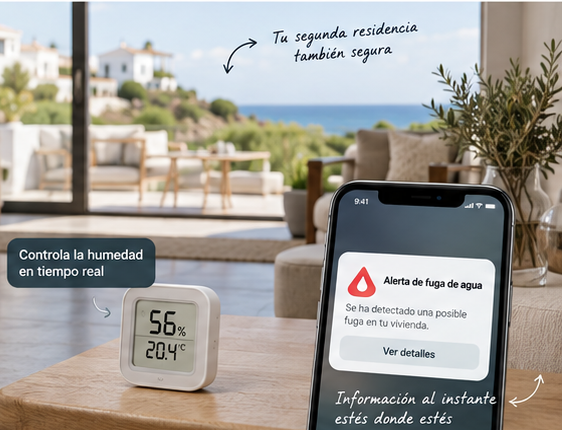
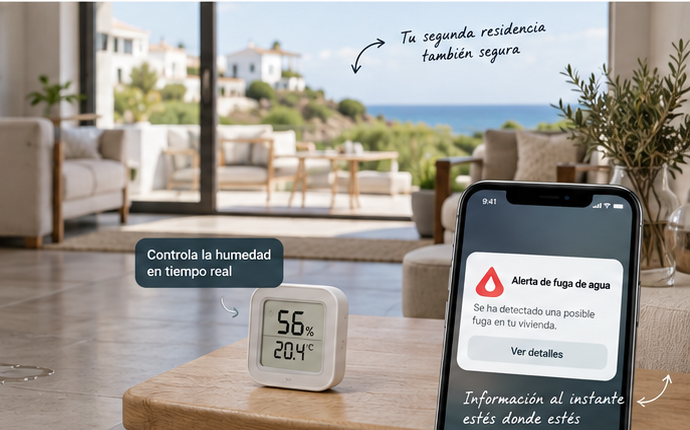
Add files via upload

diff --git a/segunda-residencia/index.html b/segunda-residencia/index.html
@@ -6,13 +6,13 @@
 <link rel="canonical" href="https://casabajocontrol.es/segunda-residencia/">
 <meta property="og:type" content="article"><meta property="og:title" content="Cómo proteger una segunda residencia | Casa Bajo Control">
 <meta property="og:description" content="Guía de Casa Bajo Control para preparar una segunda residencia frente a fugas, humedad, temperatura y problemas de conectividad."><meta property="og:url" content="https://casabajocontrol.es/segunda-residencia/">
-<meta property="og:image" content="https://casabajocontrol.es/img/og-default.png">
+<meta property="og:image" content="https://casabajocontrol.es/img/hero-segunda-residencia.png">
 <link rel="icon" href="../img/favicon.svg" type="image/svg+xml"><meta name="theme-color" content="#ffffff">
 <link rel="preconnect" href="https://fonts.googleapis.com">
 <link rel="preconnect" href="https://fonts.gstatic.com" crossorigin>
 <link rel="stylesheet" href="https://fonts.googleapis.com/css2?family=Inter:wght@400;500;600;700;800&display=swap">
 <link rel="stylesheet" href="../css/styles.css">
-<script type="application/ld+json">{"@context":"https://schema.org","@type":"Article","headline":"¿Qué pasa con tu casa cuando tú no estás?","description":"Guía de Casa Bajo Control para preparar una segunda residencia frente a fugas, humedad, temperatura y problemas de conectividad.","url":"https://casabajocontrol.es/segunda-residencia/","datePublished":"2026-09-11","dateModified":"2026-09-11","author":{"@type":"Organization","name":"Casa Bajo Control","url":"https://casabajocontrol.es/sobre-nosotros/"},"publisher":{"@type":"Organization","name":"Casa Bajo Control","url":"https://casabajocontrol.es/"},"image":["https://casabajocontrol.es/img/hero-reference.webp"]}</script>
+<script type="application/ld+json">{"@context":"https://schema.org","@type":"Article","headline":"¿Qué pasa con tu casa cuando tú no estás?","description":"Guía de Casa Bajo Control para preparar una segunda residencia frente a fugas, humedad, temperatura y problemas de conectividad.","url":"https://casabajocontrol.es/segunda-residencia/","datePublished":"2026-09-11","dateModified":"2026-09-11","author":{"@type":"Organization","name":"Casa Bajo Control","url":"https://casabajocontrol.es/sobre-nosotros/"},"publisher":{"@type":"Organization","name":"Casa Bajo Control","url":"https://casabajocontrol.es/"},"image":["https://casabajocontrol.es/img/hero-segunda-residencia.webp"]}</script>
 </head><body><a class="skip-link" href="#contenido">Saltar al contenido</a>
 <header class="site-header"><div class="container header-inner">
 <a class="brand" href="../" aria-label="Casa Bajo Control, inicio"><img src="../img/logo.svg" alt="Casa Bajo Control — Tu hogar siempre un paso por delante" width="350" height="67"></a>
@@ -23,6 +23,6 @@
 </div></header>
 <main id="contenido" class="article-page">
 <div class="page-breadcrumbs"><nav class="breadcrumbs" aria-label="Migas de pan"><a href="/">Inicio</a> <span aria-hidden="true">/</span> <span aria-current="page">Segunda residencia</span></nav></div>
-<header class="standard-page-hero"><div class="standard-page-hero-inner"><div class="standard-page-hero-copy"><span class="eyebrow">Segunda residencia</span><h1>¿Qué pasa con tu casa cuando tú no estás?</h1><p class="article-lead">Una segunda residencia necesita una estrategia distinta: detectar antes, avisar a distancia y saber qué ocurre cuando algo falla.</p><p class="article-meta">Actualizado: 11 de septiembre de 2026</p></div><div class="standard-page-hero-media hero-media-hero-reference"><img src="/img/hero-reference.webp" alt="Segunda residencia con sensor de humedad y móvil recibiendo una alerta" width="992" height="430" fetchpriority="high" decoding="async"></div></div></header>
+<header class="standard-page-hero"><div class="standard-page-hero-inner"><div class="standard-page-hero-copy"><span class="eyebrow">Segunda residencia</span><h1>¿Qué pasa con tu casa cuando tú no estás?</h1><p class="article-lead">Una segunda residencia necesita una estrategia distinta: detectar antes, avisar a distancia y saber qué ocurre cuando algo falla.</p><p class="article-meta">Actualizado: 11 de septiembre de 2026</p></div><div class="standard-page-hero-media hero-media-hero-segunda-residencia"><img src="/img/hero-segunda-residencia.webp" alt="Salón de una segunda residencia con un sensor de humedad y un móvil recibiendo una alerta de fuga" width="690" height="430" fetchpriority="high" decoding="async"></div></div></header>
 <div class="methodology-link"><a href="/como-probamos/">Qué comprobamos en el banco de pruebas →</a></div>
 <section class="article-content"><h2>Agua</h2><p>Detectar una fuga en una vivienda vacía es una prioridad porque el daño puede crecer durante días.</p><h2>Humedad</h2><p>Medir cambios de humedad ayuda a detectar problemas antes de que sean visibles.</p><h2>Conectividad</h2><p>Interesa saber qué ocurre si el router pierde Internet y qué ocurre si se corta la electricidad.</p><h2>Temperatura</h2><p>En determinadas viviendas conviene controlar frío, calor o riesgo de heladas.</p><div class="callout"><strong>Objetivo:</strong> cubrir los riesgos importantes con el menor número posible de puntos de fallo.</div></section></main><footer class="footer"><div class="container footer-grid"><div><img src="../img/logo.svg" alt="Casa Bajo Control" width="350" height="67"><p>Prevención, pruebas y soluciones para cuidar tu casa estés donde estés.</p></div><nav><h3>Explora</h3><a href="../comparativas/">Comparativas</a><a href="../guias/">Guías</a><a href="../segunda-residencia/">Segunda residencia</a></nav><nav><h3>Información</h3><a href="../como-probamos/">Cómo probamos</a><a href="../sobre-nosotros/">Sobre nosotros</a><a href="../contacto/">Contacto</a></nav><nav><h3>Legal</h3><a href="../legal/aviso-legal/">Aviso legal</a><a href="../legal/privacidad/">Privacidad</a><a href="../legal/cookies/">Cookies</a></nav></div><div class="container footer-bottom"><span>© 2026 Casa Bajo Control</span><span>En calidad de Afiliado de Amazon, obtengo ingresos por las compras adscritas que cumplen los requisitos aplicables.</span></div></footer><script src="../js/main.js" defer></script></body></html>

diff --git a/agua/index.html b/agua/index.html
@@ -6,13 +6,13 @@
 <link rel="canonical" href="https://casabajocontrol.es/agua/">
 <meta property="og:type" content="article"><meta property="og:title" content="Agua | Casa Bajo Control">
 <meta property="og:description" content="Detectores de fugas, sensores de inundación y soluciones para reducir el riesgo de daños por agua."><meta property="og:url" content="https://casabajocontrol.es/agua/">
-<meta property="og:image" content="https://casabajocontrol.es/img/og-default.png">
+<meta property="og:image" content="https://casabajocontrol.es/img/hero-alerta-fuga.png">
 <link rel="icon" href="../img/favicon.svg" type="image/svg+xml"><meta name="theme-color" content="#ffffff">
 <link rel="preconnect" href="https://fonts.googleapis.com">
 <link rel="preconnect" href="https://fonts.gstatic.com" crossorigin>
 <link rel="stylesheet" href="https://fonts.googleapis.com/css2?family=Inter:wght@400;500;600;700;800&display=swap">
 <link rel="stylesheet" href="../css/styles.css">
-<script type="application/ld+json">{"@context":"https://schema.org","@type":"Article","headline":"Agua bajo control","description":"Detectores de fugas, sensores de inundación y soluciones para reducir el riesgo de daños por agua.","url":"https://casabajocontrol.es/agua/","datePublished":"2026-09-11","dateModified":"2026-09-11","author":{"@type":"Organization","name":"Casa Bajo Control","url":"https://casabajocontrol.es/sobre-nosotros/"},"publisher":{"@type":"Organization","name":"Casa Bajo Control","url":"https://casabajocontrol.es/"},"image":["https://casabajocontrol.es/img/hero-fugas.webp"]}</script>
+<script type="application/ld+json">{"@context":"https://schema.org","@type":"Article","headline":"Agua bajo control","description":"Detectores de fugas, sensores de inundación y soluciones para reducir el riesgo de daños por agua.","url":"https://casabajocontrol.es/agua/","datePublished":"2026-09-11","dateModified":"2026-09-11","author":{"@type":"Organization","name":"Casa Bajo Control","url":"https://casabajocontrol.es/sobre-nosotros/"},"publisher":{"@type":"Organization","name":"Casa Bajo Control","url":"https://casabajocontrol.es/"},"image":["https://casabajocontrol.es/img/hero-alerta-fuga.webp"]}</script>
 </head><body><a class="skip-link" href="#contenido">Saltar al contenido</a>
 <header class="site-header"><div class="container header-inner">
 <a class="brand" href="../" aria-label="Casa Bajo Control, inicio"><img src="../img/logo.svg" alt="Casa Bajo Control — Tu hogar siempre un paso por delante" width="350" height="67"></a>
@@ -23,5 +23,5 @@
 </div></header>
 <main id="contenido" class="article-page">
 <div class="page-breadcrumbs"><nav class="breadcrumbs" aria-label="Migas de pan"><a href="/">Inicio</a> <span aria-hidden="true">/</span> <span aria-current="page">Agua</span></nav></div>
-<header class="standard-page-hero"><div class="standard-page-hero-inner"><div class="standard-page-hero-copy"><span class="eyebrow">Agua</span><h1>Agua bajo control</h1><p class="article-lead">El primer clúster de Casa Bajo Control: detectar fugas y saber qué ocurre cuando no estás en casa.</p><p class="article-meta">Actualizado: 11 de septiembre de 2026</p></div><div class="standard-page-hero-media hero-media-hero-fugas"><img src="/img/hero-fugas.webp" alt="Sensor de fugas de agua junto a una lavadora en una vivienda" width="690" height="440" fetchpriority="high" decoding="async"></div></div></header>
+<header class="standard-page-hero"><div class="standard-page-hero-inner"><div class="standard-page-hero-copy"><span class="eyebrow">Agua</span><h1>Agua bajo control</h1><p class="article-lead">El primer clúster de Casa Bajo Control: detectar fugas y saber qué ocurre cuando no estás en casa.</p><p class="article-meta">Actualizado: 11 de septiembre de 2026</p></div><div class="standard-page-hero-media hero-media-hero-alerta-fuga"><img src="/img/hero-alerta-fuga.webp" alt="Fuga bajo un fregadero con un sensor de agua y un móvil mostrando la alerta de Casa Bajo Control" width="1774" height="887" fetchpriority="high" decoding="async"></div></div></header>
 <section class="article-content"><div class="link-grid"><a href="/guias/como-detectar-una-fuga-de-agua/"><strong>Cómo detectar una fuga</strong><span>Guía de prevención y detección.</span></a><a href="/comparativas/detectores-fugas-agua/"><strong>Detectores de fugas</strong><span>Comparativa cuando existan pruebas propias.</span></a><a href="/como-probamos/"><strong>Cómo probamos</strong><span>Metodología de pruebas.</span></a></div></section></main><footer class="footer"><div class="container footer-grid"><div><img src="../img/logo.svg" alt="Casa Bajo Control" width="350" height="67"><p>Prevención, pruebas y soluciones para cuidar tu casa estés donde estés.</p></div><nav><h3>Explora</h3><a href="../comparativas/">Comparativas</a><a href="../guias/">Guías</a><a href="../segunda-residencia/">Segunda residencia</a></nav><nav><h3>Información</h3><a href="../como-probamos/">Cómo probamos</a><a href="../sobre-nosotros/">Sobre nosotros</a><a href="../contacto/">Contacto</a></nav><nav><h3>Legal</h3><a href="../legal/aviso-legal/">Aviso legal</a><a href="../legal/privacidad/">Privacidad</a><a href="../legal/cookies/">Cookies</a></nav></div><div class="container footer-bottom"><span>© 2026 Casa Bajo Control</span><span>En calidad de Afiliado de Amazon, obtengo ingresos por las compras adscritas que cumplen los requisitos aplicables.</span></div></footer><script src="../js/main.js" defer></script></body></html>

diff --git a/guias/como-detectar-una-fuga-de-agua/index.html b/guias/como-detectar-una-fuga-de-agua/index.html
@@ -6,13 +6,13 @@
 <link rel="canonical" href="https://casabajocontrol.es/guias/como-detectar-una-fuga-de-agua/">
 <meta property="og:type" content="article"><meta property="og:title" content="Cómo detectar una fuga de agua antes de que sea demasiado tarde | Casa Bajo Control">
 <meta property="og:description" content="Cómo detectar una fuga de agua en casa: señales, comprobaciones con el contador, puntos de riesgo y qué hacer si no estás en casa."><meta property="og:url" content="https://casabajocontrol.es/guias/como-detectar-una-fuga-de-agua/">
-<meta property="og:image" content="https://casabajocontrol.es/img/og-default.png">
+<meta property="og:image" content="https://casabajocontrol.es/img/hero-fuga-lavadora.png">
 <link rel="icon" href="../../img/favicon.svg" type="image/svg+xml"><meta name="theme-color" content="#ffffff">
 <link rel="preconnect" href="https://fonts.googleapis.com">
 <link rel="preconnect" href="https://fonts.gstatic.com" crossorigin>
 <link rel="stylesheet" href="https://fonts.googleapis.com/css2?family=Inter:wght@400;500;600;700;800&display=swap">
 <link rel="stylesheet" href="../../css/styles.css">
-<script type="application/ld+json">{"@context":"https://schema.org","@type":"Article","headline":"Cómo detectar una fuga de agua antes de que sea demasiado tarde","description":"Cómo detectar una fuga de agua en casa: señales, comprobaciones con el contador, puntos de riesgo y qué hacer si no estás en casa.","url":"https://casabajocontrol.es/guias/como-detectar-una-fuga-de-agua/","datePublished":"2026-09-11","dateModified":"2026-09-11","author":{"@type":"Organization","name":"Casa Bajo Control","url":"https://casabajocontrol.es/sobre-nosotros/"},"publisher":{"@type":"Organization","name":"Casa Bajo Control","url":"https://casabajocontrol.es/"},"image":["https://casabajocontrol.es/img/hero-fugas.webp"]}</script>
+<script type="application/ld+json">{"@context":"https://schema.org","@type":"Article","headline":"Cómo detectar una fuga de agua antes de que sea demasiado tarde","description":"Cómo detectar una fuga de agua en casa: señales, comprobaciones con el contador, puntos de riesgo y qué hacer si no estás en casa.","url":"https://casabajocontrol.es/guias/como-detectar-una-fuga-de-agua/","datePublished":"2026-09-11","dateModified":"2026-09-11","author":{"@type":"Organization","name":"Casa Bajo Control","url":"https://casabajocontrol.es/sobre-nosotros/"},"publisher":{"@type":"Organization","name":"Casa Bajo Control","url":"https://casabajocontrol.es/"},"image":["https://casabajocontrol.es/img/hero-fuga-lavadora.webp"]}</script>
 </head><body><a class="skip-link" href="#contenido">Saltar al contenido</a>
 <header class="site-header"><div class="container header-inner">
 <a class="brand" href="../../" aria-label="Casa Bajo Control, inicio"><img src="../../img/logo.svg" alt="Casa Bajo Control — Tu hogar siempre un paso por delante" width="350" height="67"></a>
@@ -23,7 +23,7 @@
 </div></header>
 <main id="contenido" class="article-page">
 <div class="page-breadcrumbs"><nav class="breadcrumbs" aria-label="Migas de pan"><a href="/">Inicio</a> <span aria-hidden="true">/</span> <a href="/guias/">Guías</a> <span aria-hidden="true">/</span> <span aria-current="page">Detectar una fuga de agua</span></nav></div>
-<header class="standard-page-hero"><div class="standard-page-hero-inner"><div class="standard-page-hero-copy"><span class="eyebrow">Agua</span><h1>Cómo detectar una fuga de agua antes de que sea demasiado tarde</h1><p class="article-lead">Una fuga pequeña puede pasar desapercibida durante horas o días. Te explicamos qué señales revisar, cómo comprobar si existe consumo cuando no debería y cuándo tiene sentido añadir una capa de detección.</p><p class="article-meta">Actualizado: 11 de septiembre de 2026</p></div><div class="standard-page-hero-media hero-media-hero-fugas"><img src="/img/hero-fugas.webp" alt="Sensor de fugas junto a una lavadora en una vivienda" width="690" height="440" fetchpriority="high" decoding="async"></div></div></header>
+<header class="standard-page-hero"><div class="standard-page-hero-inner"><div class="standard-page-hero-copy"><span class="eyebrow">Agua</span><h1>Cómo detectar una fuga de agua antes de que sea demasiado tarde</h1><p class="article-lead">Una fuga pequeña puede pasar desapercibida durante horas o días. Te explicamos qué señales revisar, cómo comprobar si existe consumo cuando no debería y cuándo tiene sentido añadir una capa de detección.</p><p class="article-meta">Actualizado: 11 de septiembre de 2026</p></div><div class="standard-page-hero-media hero-media-hero-fuga-lavadora"><img src="/img/hero-fuga-lavadora.webp" alt="Sensor de fugas de agua sobre un charco junto a una lavadora que pierde agua" width="1774" height="887" fetchpriority="high" decoding="async"></div></div></header>
 <div class="methodology-link"><a href="/como-probamos/">Qué comprobamos en el banco de pruebas →</a></div>
 <section class="article-content">
 <div class="article-intro-box"><strong>En resumen:</strong> si sospechas de una fuga, primero confirma si existe consumo cuando todos los puntos de agua están cerrados. Después localiza los puntos de riesgo y actúa antes de que una pequeña incidencia se convierta en daños mayores.</div>

diff --git a/guias/index.html b/guias/index.html
@@ -6,13 +6,13 @@
 <link rel="canonical" href="https://casabajocontrol.es/guias/">
 <meta property="og:type" content="article"><meta property="og:title" content="Guías | Casa Bajo Control">
 <meta property="og:description" content="Guías prácticas para prevenir y detectar problemas en casa."><meta property="og:url" content="https://casabajocontrol.es/guias/">
-<meta property="og:image" content="https://casabajocontrol.es/img/og-default.png">
+<meta property="og:image" content="https://casabajocontrol.es/img/hero-fuga-lavadora.png">
 <link rel="icon" href="../img/favicon.svg" type="image/svg+xml"><meta name="theme-color" content="#ffffff">
 <link rel="preconnect" href="https://fonts.googleapis.com">
 <link rel="preconnect" href="https://fonts.gstatic.com" crossorigin>
 <link rel="stylesheet" href="https://fonts.googleapis.com/css2?family=Inter:wght@400;500;600;700;800&display=swap">
 <link rel="stylesheet" href="../css/styles.css">
-<script type="application/ld+json">{"@context":"https://schema.org","@type":"Article","headline":"Guías prácticas","description":"Guías prácticas para prevenir y detectar problemas en casa.","url":"https://casabajocontrol.es/guias/","datePublished":"2026-09-11","dateModified":"2026-09-11","author":{"@type":"Organization","name":"Casa Bajo Control","url":"https://casabajocontrol.es/sobre-nosotros/"},"publisher":{"@type":"Organization","name":"Casa Bajo Control","url":"https://casabajocontrol.es/"},"image":["https://casabajocontrol.es/img/hero-fugas.webp"]}</script>
+<script type="application/ld+json">{"@context":"https://schema.org","@type":"Article","headline":"Guías prácticas","description":"Guías prácticas para prevenir y detectar problemas en casa.","url":"https://casabajocontrol.es/guias/","datePublished":"2026-09-11","dateModified":"2026-09-11","author":{"@type":"Organization","name":"Casa Bajo Control","url":"https://casabajocontrol.es/sobre-nosotros/"},"publisher":{"@type":"Organization","name":"Casa Bajo Control","url":"https://casabajocontrol.es/"},"image":["https://casabajocontrol.es/img/hero-fuga-lavadora.webp"]}</script>
 </head><body><a class="skip-link" href="#contenido">Saltar al contenido</a>
 <header class="site-header"><div class="container header-inner">
 <a class="brand" href="../" aria-label="Casa Bajo Control, inicio"><img src="../img/logo.svg" alt="Casa Bajo Control — Tu hogar siempre un paso por delante" width="350" height="67"></a>
@@ -23,5 +23,5 @@
 </div></header>
 <main id="contenido" class="article-page">
 <div class="page-breadcrumbs"><nav class="breadcrumbs" aria-label="Migas de pan"><a href="/">Inicio</a> <span aria-hidden="true">/</span> <span aria-current="page">Guías</span></nav></div>
-<header class="standard-page-hero"><div class="standard-page-hero-inner"><div class="standard-page-hero-copy"><span class="eyebrow">Guías</span><h1>Guías prácticas</h1><p class="article-lead">Explicaciones claras para prevenir problemas antes de que se conviertan en daños.</p><p class="article-meta">Actualizado: 11 de septiembre de 2026</p></div><div class="standard-page-hero-media hero-media-hero-fugas"><img src="/img/hero-fugas.webp" alt="Sensor de fugas de agua en un entorno doméstico" width="690" height="440" fetchpriority="high" decoding="async"></div></div></header>
+<header class="standard-page-hero"><div class="standard-page-hero-inner"><div class="standard-page-hero-copy"><span class="eyebrow">Guías</span><h1>Guías prácticas</h1><p class="article-lead">Explicaciones claras para prevenir problemas antes de que se conviertan en daños.</p><p class="article-meta">Actualizado: 11 de septiembre de 2026</p></div><div class="standard-page-hero-media hero-media-hero-fuga-lavadora"><img src="/img/hero-fuga-lavadora.webp" alt="Sensor de fugas de agua junto a una lavadora en una vivienda" width="1774" height="887" fetchpriority="high" decoding="async"></div></div></header>
 <section class="article-content"><div class="link-grid"><a href="/guias/como-detectar-una-fuga-de-agua/"><strong>Cómo detectar una fuga</strong><span>Señales y prevención.</span></a><a href="/segunda-residencia/"><strong>Segunda residencia</strong><span>Pilar transversal.</span></a><a href="/como-probamos/"><strong>Cómo probamos</strong><span>Metodología.</span></a></div></section></main><footer class="footer"><div class="container footer-grid"><div><img src="../img/logo.svg" alt="Casa Bajo Control" width="350" height="67"><p>Prevención, pruebas y soluciones para cuidar tu casa estés donde estés.</p></div><nav><h3>Explora</h3><a href="../comparativas/">Comparativas</a><a href="../guias/">Guías</a><a href="../segunda-residencia/">Segunda residencia</a></nav><nav><h3>Información</h3><a href="../como-probamos/">Cómo probamos</a><a href="../sobre-nosotros/">Sobre nosotros</a><a href="../contacto/">Contacto</a></nav><nav><h3>Legal</h3><a href="../legal/aviso-legal/">Aviso legal</a><a href="../legal/privacidad/">Privacidad</a><a href="../legal/cookies/">Cookies</a></nav></div><div class="container footer-bottom"><span>© 2026 Casa Bajo Control</span><span>En calidad de Afiliado de Amazon, obtengo ingresos por las compras adscritas que cumplen los requisitos aplicables.</span></div></footer><script src="../js/main.js" defer></script></body></html>

diff --git a/css/styles.css b/css/styles.css
@@ -358,3 +358,51 @@
 @media(max-width:900px){.standard-page-hero-inner{width:calc(100% - 32px);grid-template-columns:1fr}.standard-page-hero-copy{min-height:0;padding:38px 28px}.standard-page-hero-media{height:300px}.methodology-cards{grid-template-columns:repeat(2,minmax(0,1fr))}.recommendation-callout{width:calc(100% - 32px)}.article-content{width:calc(100% - 32px)}}
 @media(max-width:700px){.comparison-table{display:block;overflow-x:auto;-webkit-overflow-scrolling:touch}.article-grid{grid-template-columns:1fr}.page-breadcrumbs{width:calc(100% - 32px);padding-top:14px}.article-content{padding-top:18px}}
 @media(max-width:560px){.standard-page-hero-inner{width:calc(100% - 28px);border-radius:10px}.standard-page-hero-copy{padding:30px 22px}.standard-page-hero h1{font-size:36px}.standard-page-hero .article-lead{font-size:17px}.standard-page-hero-media{height:240px}.article-content{width:calc(100% - 28px);font-size:16px}.methodology-cards{grid-template-columns:1fr}.recommendation-callout{width:calc(100% - 28px);grid-template-columns:48px 1fr;padding:18px}.recommendation-callout .button{grid-column:1/-1;width:100%}.card-icon{width:48px;height:48px;flex-basis:48px}.methodology-cards .article-card{gap:13px;padding:16px;min-height:0}.recommendation-icon{width:48px;height:48px}}
+
+/* v2.9 — Hero interior según mockup: la foto llena la altura de la tarjeta y se funde con el fondo por la izquierda.
+   Se aplica a todas las páginas con .standard-page-hero; la posición de recorte se ajusta por imagen con la clase hero-media-<archivo> que genera build.py. */
+@media(min-width:901px){.standard-page-hero-inner{grid-template-columns:minmax(0,.92fr) minmax(360px,1.08fr);align-items:stretch}}
+.standard-page-hero-copy{padding:36px 30px 34px 34px;min-height:325px;justify-content:center}
+.standard-page-hero h1{max-width:600px;margin:6px 0 14px;font-size:clamp(34px,3.3vw,46px);line-height:1.04}
+.standard-page-hero .article-lead{max-width:560px;font-size:16.5px;line-height:1.5}
+.standard-page-hero .article-meta{margin-top:16px}
+.standard-page-hero-media{position:relative;height:auto;min-height:325px;align-self:stretch;overflow:hidden;background:#eef4f1}
+.standard-page-hero-media img{position:absolute;inset:0;width:100%;height:100%;object-fit:cover;object-position:var(--hero-pos,center)}
+.standard-page-hero-media::after{content:"";position:absolute;inset:0;pointer-events:none;
+  background:linear-gradient(90deg,#eef4f1 0%,rgba(238,244,241,.92) 9%,rgba(238,244,241,.55) 20%,rgba(238,244,241,0) 38%)}
+/* Posición de recorte por imagen (qué parte se conserva cuando la caja es más estrecha que la foto) */
+.hero-media-hero-metodologia{--hero-pos:78% 50%}
+.hero-media-hero-fugas{--hero-pos:55% 50%}
+.hero-media-hero-comparativas{--hero-pos:72% 50%}
+.hero-media-hero-reference{--hero-pos:78% 50%}
+@media(max-width:900px){
+  .standard-page-hero-media{min-height:260px;height:260px}
+  .standard-page-hero-media::after{background:linear-gradient(180deg,#eef4f1 0%,rgba(238,244,241,0) 26%)}
+  .standard-page-hero-copy{min-height:0;padding:34px 26px 30px}
+}
+@media(max-width:560px){.standard-page-hero-media{min-height:220px;height:220px}.standard-page-hero h1{font-size:34px}}
+
+/* v2.10 — cierre responsive del hero: en ≤900 px cada foto conserva su proporción (sin recorte), y el degradado solo existe en dos columnas. */
+@media(max-width:900px){
+  .standard-page-hero-media{position:relative;height:auto;min-height:0}
+  .standard-page-hero-media img{position:static;width:100%;height:auto;object-fit:initial;object-position:initial}
+  .standard-page-hero-media::after{display:none}
+}
+@media(max-width:560px){.standard-page-hero-media{height:auto;min-height:0}}
+/* Degradado más contenido en escritorio: solo suaviza el borde entre texto y foto. */
+@media(min-width:901px){.standard-page-hero-media::after{background:linear-gradient(90deg,#eef4f1 0%,rgba(238,244,241,.85) 7%,rgba(238,244,241,.35) 16%,rgba(238,244,241,0) 28%)}}
+/* Encuadre de las fotos nuevas */
+.hero-media-hero-fuga-lavadora{--hero-pos:62% 60%}
+.hero-media-hero-alerta-fuga{--hero-pos:35% 50%}
+.hero-media-hero-lavadora-sensor{--hero-pos:40% 55%}
+.hero-media-hero-segunda-residencia{--hero-pos:70% 18%}
+
+/* v2.11 — Home: sección checklist como imagen (escritorio/tablet). En móvil se mantiene la tarjeta, porque el texto incrustado no sería legible. */
+.tool-banner{display:block;border-radius:25px;overflow:hidden;background:#eef4f1}
+.tool-banner img{display:block;width:100%;height:auto}
+.tool-banner:hover{opacity:.97}
+@media(min-width:701px){.tool-card-mobile{display:none}}
+@media(max-width:700px){.tool-banner{display:none}}
+/* Encuadre de las fotos nuevas */
+.hero-media-hero-fuga-lavadora{--hero-pos:70% 60%}
+.hero-media-hero-alerta-fuga{--hero-pos:45% 50%}

diff --git a/content/home/index.html b/content/home/index.html
@@ -43,7 +43,7 @@
 <a class="compare-card" href="comparativas/sensores-puertas-ventanas/"><div class="compare-image"><img src="img/door-reference.png" alt="Sensor de puertas y ventanas" width="150" height="110"><span class="pill analyzed">Analizado</span></div><h3>Mejores sensores de puertas<br>y ventanas</h3><p>Recibe alertas ante cualquier acceso<br>no autorizado.</p><strong>Ver comparativa&nbsp; →</strong></a>
 </div></div></section>
 <section class="residence"><div class="container residence-grid"><div><span class="eyebrow">Segunda residencia</span><h2>¿Qué pasa con tu casa cuando tú no estás?</h2><p>Una fuga, una humedad excesiva o un corte de conexión pueden convertirse en un problema serio si nadie está allí para detectarlo.</p><a class="button button-primary" href="proteger-segunda-residencia/">Preparar mi casa</a></div><ol><li><b>01</b><strong>Agua</strong><span>Detectar fugas y controlar el suministro.</span></li><li><b>02</b><strong>Humedad</strong><span>Detectar problemas antes de que aparezca moho.</span></li><li><b>03</b><strong>Conectividad</strong><span>Recibir avisos aunque la casa esté lejos.</span></li><li><b>04</b><strong>Temperatura</strong><span>Controlar frío, calor y riesgo de heladas.</span></li></ol></div></section>
-<section class="tool"><div class="container"><div class="tool-card"><div><span class="eyebrow">Próximamente</span><h2>¿Está preparada tu segunda residencia?</h2><p>Responde unas preguntas y descubre qué puntos deberías revisar antes de dejar tu casa vacía.</p><a class="button light" href="proteger-segunda-residencia/">Hacer el checklist</a></div><span class="tool-num">01</span></div></div></section>
+<section class="tool"><div class="container"><a class="tool-banner" href="proteger-segunda-residencia/"><picture><source srcset="img/home-checklist.webp" type="image/webp"><img src="img/home-checklist.png" alt="¿Está preparada tu segunda residencia? Responde unas preguntas y descubre qué puntos deberías revisar antes de dejar tu casa vacía. Hacer el checklist" width="1983" height="793" loading="lazy" decoding="async"></picture></a><div class="tool-card tool-card-mobile"><div><span class="eyebrow">Próximamente</span><h2>¿Está preparada tu segunda residencia?</h2><p>Responde unas preguntas y descubre qué puntos deberías revisar antes de dejar tu casa vacía.</p><a class="button light" href="proteger-segunda-residencia/">Hacer el checklist</a></div><span class="tool-num">01</span></div></div></section>
 <section class="method"><div class="container method-grid"><div><span class="eyebrow">Sin humo</span><h2>Cómo probamos</h2><p>No nos limitamos a leer especificaciones. Instalamos los productos y comprobamos qué ocurre cuando algo falla.</p><a class="text-link" href="como-probamos/">Conoce nuestra metodología →</a></div><ol><li><b>01</b><span>Alertas reales</span></li><li><b>02</b><span>Cortes de Internet</span></li><li><b>03</b><span>Cortes de electricidad</span></li><li><b>04</b><span>Autonomía y batería</span></li></ol></div></section>
 </main>
 <footer class="footer"><div class="container footer-grid"><div><img src="img/logo.svg" alt="Casa Bajo Control" width="350" height="67"><p>Prevención, pruebas y soluciones para cuidar tu casa estés donde estés.</p></div><nav><h3>Explora</h3><a href="comparativas/">Comparativas</a><a href="guias/">Guías</a><a href="segunda-residencia/">Segunda residencia</a></nav><nav><h3>Información</h3><a href="como-probamos/">Cómo probamos</a><a href="sobre-nosotros/">Sobre nosotros</a><a href="contacto/">Contacto</a></nav><nav><h3>Legal</h3><a href="legal/aviso-legal/">Aviso legal</a><a href="legal/privacidad/">Privacidad</a><a href="legal/cookies/">Cookies</a></nav></div><div class="container footer-bottom"><span>© 2026 Casa Bajo Control</span><span>En calidad de Afiliado de Amazon, obtengo ingresos por las compras adscritas que cumplen los requisitos aplicables.</span></div></footer>

diff --git a/index.html b/index.html
@@ -43,7 +43,7 @@
 <a class="compare-card" href="comparativas/sensores-puertas-ventanas/"><div class="compare-image"><img src="img/door-reference.png" alt="Sensor de puertas y ventanas" width="150" height="110"><span class="pill analyzed">Analizado</span></div><h3>Mejores sensores de puertas<br>y ventanas</h3><p>Recibe alertas ante cualquier acceso<br>no autorizado.</p><strong>Ver comparativa&nbsp; →</strong></a>
 </div></div></section>
 <section class="residence"><div class="container residence-grid"><div><span class="eyebrow">Segunda residencia</span><h2>¿Qué pasa con tu casa cuando tú no estás?</h2><p>Una fuga, una humedad excesiva o un corte de conexión pueden convertirse en un problema serio si nadie está allí para detectarlo.</p><a class="button button-primary" href="proteger-segunda-residencia/">Preparar mi casa</a></div><ol><li><b>01</b><strong>Agua</strong><span>Detectar fugas y controlar el suministro.</span></li><li><b>02</b><strong>Humedad</strong><span>Detectar problemas antes de que aparezca moho.</span></li><li><b>03</b><strong>Conectividad</strong><span>Recibir avisos aunque la casa esté lejos.</span></li><li><b>04</b><strong>Temperatura</strong><span>Controlar frío, calor y riesgo de heladas.</span></li></ol></div></section>
-<section class="tool"><div class="container"><div class="tool-card"><div><span class="eyebrow">Próximamente</span><h2>¿Está preparada tu segunda residencia?</h2><p>Responde unas preguntas y descubre qué puntos deberías revisar antes de dejar tu casa vacía.</p><a class="button light" href="proteger-segunda-residencia/">Hacer el checklist</a></div><span class="tool-num">01</span></div></div></section>
+<section class="tool"><div class="container"><a class="tool-banner" href="proteger-segunda-residencia/"><picture><source srcset="img/home-checklist.webp" type="image/webp"><img src="img/home-checklist.png" alt="¿Está preparada tu segunda residencia? Responde unas preguntas y descubre qué puntos deberías revisar antes de dejar tu casa vacía. Hacer el checklist" width="1983" height="793" loading="lazy" decoding="async"></picture></a><div class="tool-card tool-card-mobile"><div><span class="eyebrow">Próximamente</span><h2>¿Está preparada tu segunda residencia?</h2><p>Responde unas preguntas y descubre qué puntos deberías revisar antes de dejar tu casa vacía.</p><a class="button light" href="proteger-segunda-residencia/">Hacer el checklist</a></div><span class="tool-num">01</span></div></div></section>
 <section class="method"><div class="container method-grid"><div><span class="eyebrow">Sin humo</span><h2>Cómo probamos</h2><p>No nos limitamos a leer especificaciones. Instalamos los productos y comprobamos qué ocurre cuando algo falla.</p><a class="text-link" href="como-probamos/">Conoce nuestra metodología →</a></div><ol><li><b>01</b><span>Alertas reales</span></li><li><b>02</b><span>Cortes de Internet</span></li><li><b>03</b><span>Cortes de electricidad</span></li><li><b>04</b><span>Autonomía y batería</span></li></ol></div></section>
 </main>
 <footer class="footer"><div class="container footer-grid"><div><img src="img/logo.svg" alt="Casa Bajo Control" width="350" height="67"><p>Prevención, pruebas y soluciones para cuidar tu casa estés donde estés.</p></div><nav><h3>Explora</h3><a href="comparativas/">Comparativas</a><a href="guias/">Guías</a><a href="segunda-residencia/">Segunda residencia</a></nav><nav><h3>Información</h3><a href="como-probamos/">Cómo probamos</a><a href="sobre-nosotros/">Sobre nosotros</a><a href="contacto/">Contacto</a></nav><nav><h3>Legal</h3><a href="legal/aviso-legal/">Aviso legal</a><a href="legal/privacidad/">Privacidad</a><a href="legal/cookies/">Cookies</a></nav></div><div class="container footer-bottom"><span>© 2026 Casa Bajo Control</span><span>En calidad de Afiliado de Amazon, obtengo ingresos por las compras adscritas que cumplen los requisitos aplicables.</span></div></footer>

diff --git a/como-probamos/index.html b/como-probamos/index.html
@@ -6,7 +6,7 @@
 <link rel="canonical" href="https://casabajocontrol.es/como-probamos/">
 <meta property="og:type" content="article"><meta property="og:title" content="Cómo analizamos y probamos los productos | Casa Bajo Control">
 <meta property="og:description" content="Cómo analiza y prueba Casa Bajo Control sensores, detectores y soluciones para proteger una vivienda: alertas, continuidad, conectividad, instalación y costes."><meta property="og:url" content="https://casabajocontrol.es/como-probamos/">
-<meta property="og:image" content="https://casabajocontrol.es/img/og-default.png">
+<meta property="og:image" content="https://casabajocontrol.es/img/hero-metodologia.png">
 <link rel="icon" href="../img/favicon.svg" type="image/svg+xml"><meta name="theme-color" content="#ffffff">
 <link rel="preconnect" href="https://fonts.googleapis.com">
 <link rel="preconnect" href="https://fonts.gstatic.com" crossorigin>

diff --git a/comparativas/detectores-fugas-agua/index.html b/comparativas/detectores-fugas-agua/index.html
@@ -6,7 +6,7 @@
 <link rel="canonical" href="https://casabajocontrol.es/comparativas/detectores-fugas-agua/">
 <meta property="og:type" content="article"><meta property="og:title" content="Detectores de fugas de agua | Casa Bajo Control">
 <meta property="og:description" content="Comparativa de detectores de fugas de agua basada en pruebas reales."><meta property="og:url" content="https://casabajocontrol.es/comparativas/detectores-fugas-agua/">
-<meta property="og:image" content="https://casabajocontrol.es/img/og-default.png">
+<meta property="og:image" content="{{OG_IMAGE}}">
 <link rel="icon" href="../../img/favicon.svg" type="image/svg+xml"><meta name="theme-color" content="#ffffff">
 <link rel="preconnect" href="https://fonts.googleapis.com">
 <link rel="preconnect" href="https://fonts.gstatic.com" crossorigin>

diff --git a/comparativas/index.html b/comparativas/index.html
@@ -6,7 +6,7 @@
 <link rel="canonical" href="https://casabajocontrol.es/comparativas/">
 <meta property="og:type" content="article"><meta property="og:title" content="Comparativas | Casa Bajo Control">
 <meta property="og:description" content="Comparativas de productos para prevenir fugas, humedad y otros problemas domésticos."><meta property="og:url" content="https://casabajocontrol.es/comparativas/">
-<meta property="og:image" content="https://casabajocontrol.es/img/og-default.png">
+<meta property="og:image" content="https://casabajocontrol.es/img/hero-comparativas.png">
 <link rel="icon" href="../img/favicon.svg" type="image/svg+xml"><meta name="theme-color" content="#ffffff">
 <link rel="preconnect" href="https://fonts.googleapis.com">
 <link rel="preconnect" href="https://fonts.gstatic.com" crossorigin>

diff --git a/humedad/index.html b/humedad/index.html
@@ -6,7 +6,7 @@
 <link rel="canonical" href="https://casabajocontrol.es/humedad/">
 <meta property="og:type" content="article"><meta property="og:title" content="Humedad | Casa Bajo Control">
 <meta property="og:description" content="Higrómetros, sensores de humedad y soluciones para detectar y prevenir problemas."><meta property="og:url" content="https://casabajocontrol.es/humedad/">
-<meta property="og:image" content="https://casabajocontrol.es/img/og-default.png">
+<meta property="og:image" content="https://casabajocontrol.es/img/hero-reference.png">
 <link rel="icon" href="../img/favicon.svg" type="image/svg+xml"><meta name="theme-color" content="#ffffff">
 <link rel="preconnect" href="https://fonts.googleapis.com">
 <link rel="preconnect" href="https://fonts.gstatic.com" crossorigin>

diff --git a/sobre-nosotros/index.html b/sobre-nosotros/index.html
@@ -6,7 +6,7 @@
 <link rel="canonical" href="https://casabajocontrol.es/sobre-nosotros/">
 <meta property="og:type" content="article"><meta property="og:title" content="Sobre Casa Bajo Control">
 <meta property="og:description" content="Quién está detrás de Casa Bajo Control y cómo trabajamos."><meta property="og:url" content="https://casabajocontrol.es/sobre-nosotros/">
-<meta property="og:image" content="https://casabajocontrol.es/img/og-default.png">
+<meta property="og:image" content="https://casabajocontrol.es/img/hero-metodologia.png">
 <link rel="icon" href="../img/favicon.svg" type="image/svg+xml"><meta name="theme-color" content="#ffffff">
 <link rel="preconnect" href="https://fonts.googleapis.com">
 <link rel="preconnect" href="https://fonts.gstatic.com" crossorigin>
